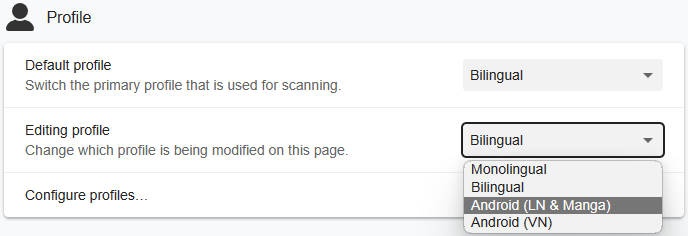
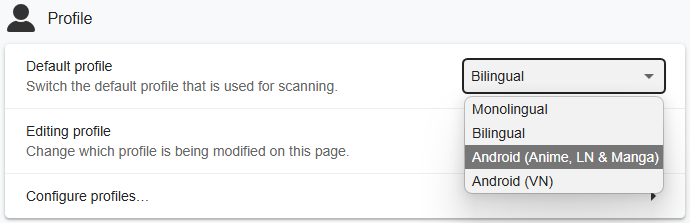
$updated info

diff --git a/docs/jp-lazy-guide/setupYomitanOnAndroid.md b/docs/jp-lazy-guide/setupYomitanOnAndroid.md
@@ -35,15 +35,16 @@
 
     ![Dictionary Import](../img/yomitan-dictionary-import.png){height=250 width=500}
 
-5. Then Scroll down, in `Backup` > `Import Settings` > `lazyxel-yomitan-settings` (from the extracted folder)
-    - If you are interested on installing [Yomitan Local Audio](setupYomitanOnAndroid.md/#info-2-android-yomitan-local-audio) pick `lazyXel-local-audio-yomitan-settings`, otherwise `lazyXel-non-local-audio-yomitan-settings`
-    - `Import` NOT `Sanitize and Import`
-    
-        ![Yomitan Import](../img/yomitan-import.png){height=150 width=300}
+7. Then Scroll down, in `Backup` > `Import Settings` > `lazyxel-yomitan-settings` (from the extracted folder)
+    - Pick either:
+        - `lazyXel-local-audio-yomitan-settings` (Install: [Yomitan Local Audio](setupYomitanOnAndroid.md/#info-2-android-yomitan-local-audio))
+        - `lazyXel-non-local-audio-yomitan-settings`
 
-6. Pick `Android (LN & Manga)` profile (`Default` and `Editing`)
+        ![Yomitan Import Settings](../img/yomitan-import-settings.png){align=left height=300 width=600}
 
-    ![Yomitan Profile](../img/yomitan-profiles.png){align=left height=300 width=600}
+6. Pick `Android (Anime, LN & Manga)` profile (`Default` and `Editing`)
+
+    ![Yomitan Profile](../img/yomitan-profile-android.png){align=left height=300 width=600}
 
 Yomitan setup is done, next is ShareX for convenient Mining
 
@@ -107,7 +108,7 @@ Yomitan setup is done, next is ShareX for convenient Mining
         - Paste the `android` file ON `files` folder from `PC` (2nd step)
         - The result should be: `Android/data/com.kamwithk.ankiconnectandroid/files/android.db`
     
-    5. My `local-audio-yomitan-settings` profile: `Android (LN & Manga)`
+    5. My `local-audio-yomitan-settings` profile: `Android (Anime, LN & Manga)`
         - OR if you are not using my profile:
             - Go to `Yomitan settings` > `Audio` > `Configure audio playback sources...` > `Add` > `Custom URL (JSON)`
             - Paste `http://localhost:8765/localaudio/get/?sources=jpod,jpod_alternate,nhk16,forvo&term={term}&reading={reading}` and make sure it's on the top

diff --git a/docs/jp-lazy-guide/setupYomitanOnPC.md b/docs/jp-lazy-guide/setupYomitanOnPC.md
@@ -47,10 +47,11 @@
     ![Dictionary Import](../img/yomitan-dictionary-import.png){height=250 width=500}
 
 7. Then Scroll down, in `Backup` > `Import Settings` > `lazyxel-yomitan-settings` (from the extracted folder)
-    - If you are interested on installing [Yomitan Local Audio](setupYomitanOnPC.md/#info-2-yomitan-local-audio) pick `lazyXel-local-audio-yomitan-settings`, otherwise `lazyXel-non-local-audio-yomitan-settings`
-    - `Import` NOT `Sanitize and Import`
-    
-        ![Yomitan Import](../img/yomitan-import.png){height=150 width=300}
+    - Pick either:
+        - `lazyXel-local-audio-yomitan-settings` (Install: [Yomitan Local Audio](setupYomitanOnPC.md/#info-2-yomitan-local-audio))
+        - `lazyXel-non-local-audio-yomitan-settings`
+
+        ![Yomitan Import Settings](../img/yomitan-import-settings.png){align=left height=300 width=600}
 
 8. Pick a profile(`Default` and `Editing`), usually between `Monolingual` and `Bilingual` (other profiles will be discussed in other sections)
     - `Bilingual` is default, you can hold `alt` while hovering over a word to use the `Monolingual` profile
@@ -167,6 +168,6 @@ Yomitan on PC setup is done, why not check out how to use Yomitan on Android?
 
     ![Sentence Card Instruction 2](../img/sentence-card-instruction-2.png){height=300 width=600}
 
-    Now apply it on every profile under `Editing Profile` and make sure `Monolingual`, `Bilingual`, `Android (LN & Manga)` and `Android (VN)` got their config changed
+    Now apply it on every profile under `Editing Profile` and make sure `Monolingual`, `Bilingual`, `Android (Anime, LN & Manga)` and `Android (VN)` got their config changed
 
     ![Yomitan Profile](../img/yomitan-profiles.png){align=left height=300 width=600}

diff --git a/docs/jp-lazy-guide/setupLnOnAndroid.md b/docs/jp-lazy-guide/setupLnOnAndroid.md
@@ -21,7 +21,7 @@ Requirements:
 1. Open `AnkiConnect Android`, start the service
     - Open `Ankidroid` and leave it in the background
 
-2. Open your `Kiwi Browser` > `Yomitan Settings` > `Profile` > `Default` & `Editing` Profile > `Android (LN & Manga)`
+2. Open your `Kiwi Browser` > `Yomitan Settings` > `Profile` > `Default` & `Editing` Profile > `Android (Anime, LN & Manga)`
     - If you are not using my `Yomitan settings`, see [Info 2](setupLnOnAndroid.md/#info-2-text-replacement-pattern)
 
     ![Yomitan Profile Android](../img/yomitan-profile-android.png){height=250 width=500}
@@ -94,7 +94,7 @@ You can now read Light Novels in Android, why not check out the Manga setup?
         - Alternatively, use [MiXplorer](https://forum.xda-developers.com/t/app-2-2-mixplorer-v6-x-released-fully-featured-file-manager.1523691/#post-23109280) file manager if you only have android device
             - Only `Copy` from your download folder not `Cut`, otherwise it will not `Paste`
     
-    5. My `local-audio-yomitan-settings` profile: `Android (LN & Manga)`
+    5. My `local-audio-yomitan-settings` profile: `Android (Anime, LN & Manga)`
         - OR if you are not using my profile:
             - Go to `Yomitan settings` > `Audio` > `Configure audio playback sources...` > `Add` > `Custom URL (JSON)`
             - Paste `http://localhost:8765/localaudio/get/?term={term}&reading={reading}` and make sure it's on the top

diff --git a/docs/jp-lazy-guide/transferJPMNToLapis.md b/docs/jp-lazy-guide/transferJPMNToLapis.md
@@ -74,7 +74,7 @@ If you've been using `JPMN` Format and want to transfer to `Lapis`
 
         ![Sentence Card Instruction 2](../img/sentence-card-instruction-2.png){height=300 width=600}
 
-        Now apply it on every profile under `Editing Profile` and make sure `Monolingual`, `Bilingual`, `Android (LN & Manga)` and `Android (VN)` got their config changed
+        Now apply it on every profile under `Editing Profile` and make sure `Monolingual`, `Bilingual`, `Android (Anime, LN & Manga)` and `Android (VN)` got their config changed
 
         ![Yomitan Profile](../img/yomitan-profiles.png){align=left height=300 width=600}
 

diff --git a/docs/jp-lazy-guide/setupAnki.md b/docs/jp-lazy-guide/setupAnki.md
@@ -164,6 +164,6 @@ You now have an Anki Template, next is Yomitan
 
         ![Sentence Card Instruction 2](../img/sentence-card-instruction-2.png){height=300 width=600}
 
-        Now apply it on every profile under `Editing Profile` and make sure `Monolingual`, `Bilingual`, `Android (LN & Manga)` and `Android (VN)` got their config changed
+        Now apply it on every profile under `Editing Profile` and make sure `Monolingual`, `Bilingual`, `Android (Anime, LN & Manga)` and `Android (VN)` got their config changed
 
         ![Yomitan Profile](../img/yomitan-profiles.png){align=left height=300 width=600}

diff --git a/docs/jp-lazy-guide/setupAnkiOld.md b/docs/jp-lazy-guide/setupAnkiOld.md
@@ -358,6 +358,6 @@ You now have an Anki Template, next is Yomitan
 
         ![Sentence Card Instruction 2](../img/sentence-card-instruction-2.png){height=300 width=600}
 
-        Now apply it on every profile under `Editing Profile` and make sure `Monolingual`, `Bilingual`, `Android (LN & Manga)` and `Android (VN)` got their config changed
+        Now apply it on every profile under `Editing Profile` and make sure `Monolingual`, `Bilingual`, `Android (Anime, LN & Manga)` and `Android (VN)` got their config changed
 
         ![Yomitan Profile](../img/yomitan-profiles.png){align=left height=300 width=600}

diff --git a/docs/jp-lazy-guide/changelog.md b/docs/jp-lazy-guide/changelog.md
@@ -15,6 +15,12 @@ hide:
 **2025-02-10**
 
 - Yomitan:
+	- Updated [settings](https://drive.google.com/drive/folders/1_fyeMaldky38dGXbOZAMB7BII_wx0kPU?usp=sharing) for JPMN format
+	- Last update for the design; nothing's broken
+
+**2025-02-10**
+
+- Yomitan:
 	- Updated [settings](https://drive.google.com/drive/folders/1s_PdQ9HWvpDFXkh_AGGzVgqrFBGhUsbI?usp=sharing)
 	- Fixed a long time bug regarding scrollbar since yomichan > yomitan transition
 	- Fixed a spacing bug that overlaps with other styling

diff --git a/docs/jp-lazy-guide/index.md b/docs/jp-lazy-guide/index.md
@@ -23,7 +23,7 @@ Have any questions? Contact me at Discord: [xelieu](https://www.discordapp.com/u
 
 ## Anki and Yomitan Format
 
-- 4 in 1 Profile Support: `Monolingual`, `Bilingual`, `LN & Manga in Android`, `VN in Android`
+- 4 in 1 Profile Support: `Monolingual`, `Bilingual`, `Android (Anime, LN & Manga)`, `Android (VN)`
 
 === "Anki"
     === "PC | Dark"
